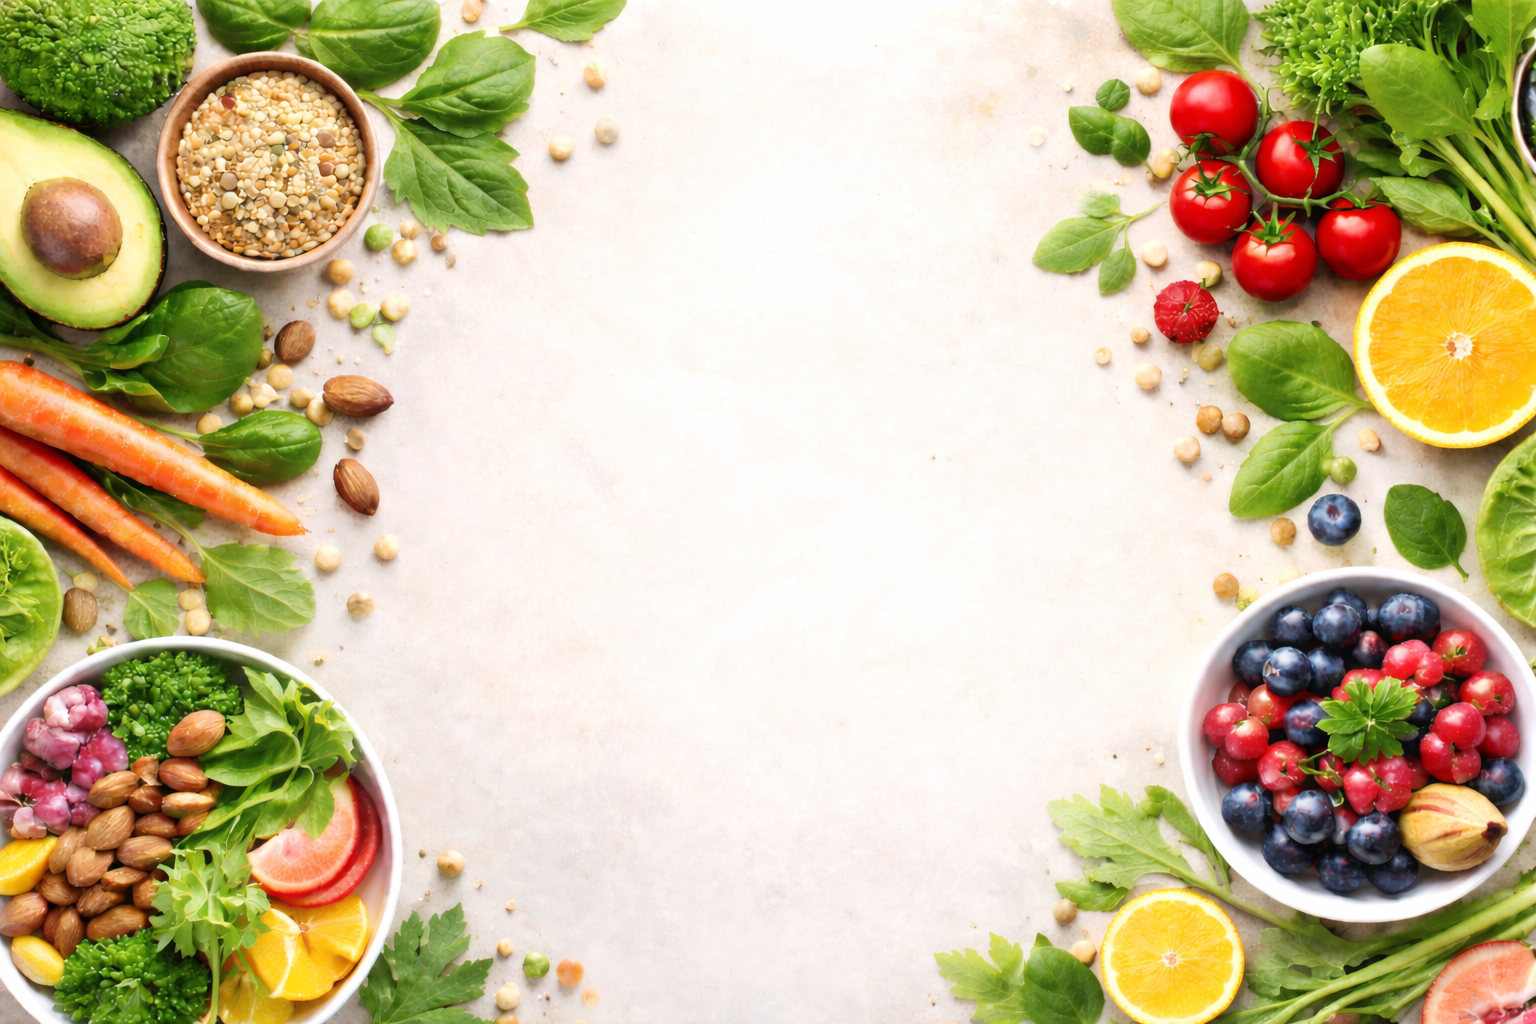
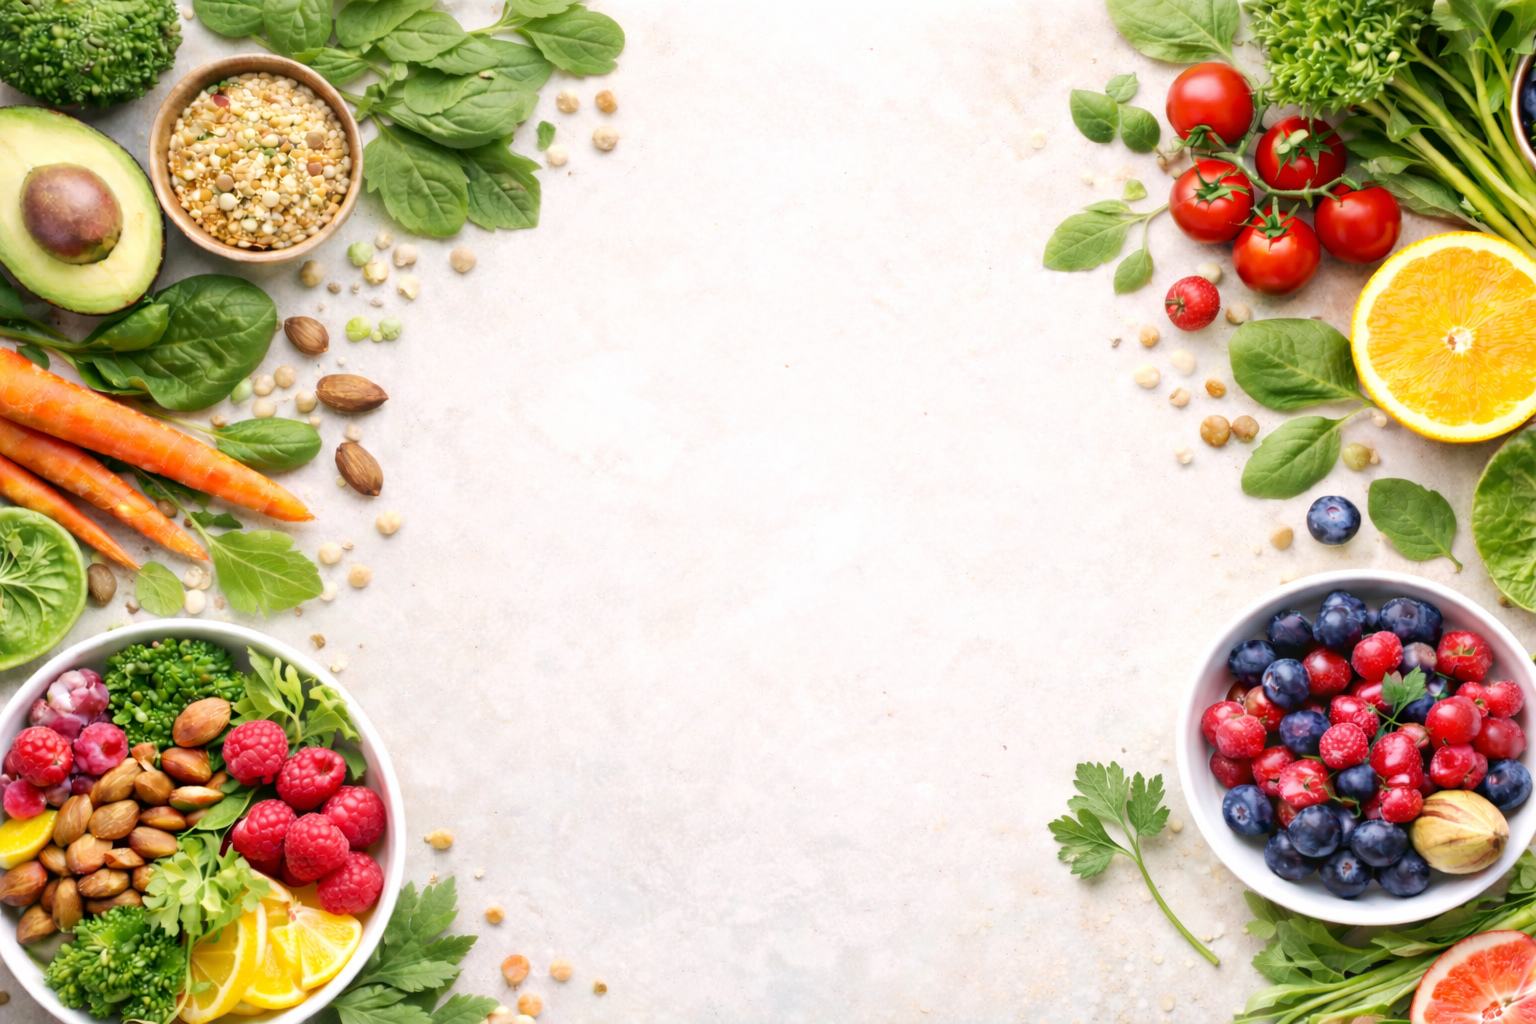
heatmap

diff --git a/docs/index.html b/docs/index.html
@@ -7,7 +7,7 @@
   <title>Food–Body Connection | Login</title>
   <link rel="stylesheet" href="styles.css" />
   <link rel="icon" type="image/png" href="static/favicon.png">
-  <link rel="apple-touch-icon" href="/food_body_connection/static/favicon.png">
+  <link rel="apple-touch-icon" href="food_body_connection/static/favicon.png">
 </head>
 <body>
   <main class="container">

diff --git a/docs/dashboard.html b/docs/dashboard.html
@@ -6,7 +6,7 @@
   <title>Food–Body Connection | Dashboard</title>
   <link rel="stylesheet" href="styles.css" />
   <link rel="icon" type="image/png" href="static/favicon.png">
-  <link rel="apple-touch-icon" href="/food_body_connection/static/favicon.png">
+  <link rel="apple-touch-icon" href="food_body_connection/static/favicon.png">
 
 </head>
 <body>

diff --git a/backend/app/analysis/eda.py b/backend/app/analysis/eda.py
@@ -24,7 +24,7 @@ def eda_plot_heatmap(
     symptom_events = get_all_symptom_events_df(db, current_user)
 
     X,y = get_xy(allergen_events, symptom_events)
-    logger.info("X shape pre encoding: %s", str(X.shape)) 
+    logger.info("X shape pre encoding: %s", str(X.head())) 
     X = pd.get_dummies(X, columns=["allergen_id"], drop_first=False)
     logger.info("X shape post encoding: %s", str(X.shape)) 
 
